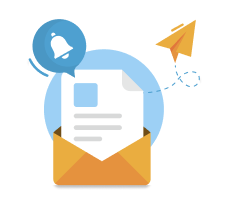
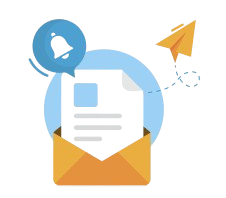
Dark mode

diff --git a/src/components/Home/Contacto/Contacto.jsx b/src/components/Home/Contacto/Contacto.jsx
@@ -49,12 +49,12 @@ const Contacto = () => {
               <input
                 type="text"
                 placeholder="Nombre"
-                className="w-full p-3 border border-gray-300 rounded-md outline-none"
+                className="w-full p-3 border border-[var(--border-gray-300)] placeholder-[var(--color-placeholder)] text-[var(--p-negro)] rounded-md outline-none"
               />
               <input
                 type="text"
                 placeholder="Apellido"
-                className="w-full p-3 border border-gray-300 rounded-md outline-none"
+                className="w-full p-3 border border-[var(--border-gray-300)] placeholder-[var(--color-placeholder)] text-[var(--p-negro)] rounded-md outline-none"
               />
             </div>
 
@@ -62,7 +62,7 @@ const Contacto = () => {
             <input
               type="email"
               placeholder="Correo electrónico"
-              className="w-full p-3 border border-gray-300 rounded-md outline-none"
+              className="w-full p-3 border border-[var(--border-gray-300)] placeholder-[var(--color-placeholder)] text-[var(--p-negro)] rounded-md outline-none"
             />
 
             {/* Adjuntar imagen + (opcional) */}
@@ -70,7 +70,7 @@ const Contacto = () => {
               <input
                 type="file"
                 id="fileInput"
-                className="w-full p-3 border border-gray-300 rounded-md outline-none pr-20 cursor-pointer"
+                className="w-full p-3 border border-[var(--border-gray-300)] placeholder-[var(--color-placeholder)] text-[var(--p-negro)] rounded-md outline-none pr-20 cursor-pointer"
               />
 
               <label
@@ -95,7 +95,7 @@ const Contacto = () => {
             <textarea
               placeholder="Mensaje"
               rows={5}
-              className="w-full p-3 border border-gray-300 rounded-md outline-none resize-none"
+              className="w-full p-3 border border-[var(--border-gray-300)] placeholder-[var(--color-placeholder)] text-[var(--p-negro)] rounded-md outline-none resize-none"
             ></textarea>
 
             {/* Botón enviar */}
@@ -104,8 +104,7 @@ const Contacto = () => {
               className="
                 w-full bg-[var(--botones-rojos)]
                 text-[var(--p-blanco)] font-semibold py-3 rounded-md
-                hover:bg-red-700 transition-all
-              "
+                hover:bg-[var(--botones-rojos-hover)] transition-all"
             >
               Enviar mensaje
             </button>

diff --git a/src/styles/Theme.js b/src/styles/Theme.js
@@ -11,8 +11,11 @@ export const themeColors = {
         '--p-gris-claro': '#908F8F',
         '--recuadro': '#F6F5F5',
         '--botones-rojos': '#C94800',
+        '--botones-rojos-hover':'#B91C1C',
         '--fondo-cards': '#F1F1F3',
-        '--bordes-botones-negro': '#000000'
+        '--bordes-botones-negro': '#000000',
+        '--border-gray-300': '#D1D5DC',
+        '--color-placeholder': '#8d8d8d',
     },
 
     dark: {
@@ -21,13 +24,16 @@ export const themeColors = {
         '--color-background-third': '#262626',        // Cards o bloques
         '--color-background-forth': '#131313',        // Fondos sutiles
         '--color-background-black': '#000000',        // Negro puro si lo necesitas
-        '--color-titulos': '#FF6A2A',                 // Naranja rojizo brillante
+        '--color-titulos': '#005CFF',                 // Naranja rojizo brillante
         '--p-blanco': '#F5F5F5',                      // Blanco suave
         '--p-negro': '#FFFFFF',
         '--p-gris-claro': '#B8B8B8',                  // Gris claro legible
         '--recuadro': '#1F1F1F',                      // Caja o fondo de inputs
-        '--botones-rojos': '#FF6A2A',                 // Botón en dark
+        '--botones-rojos': '#0083C9',                 // Botón en dark
+        '--botones-rojos-hover':'#1C4FB9',
         '--fondo-cards': '#1A1A1A',                   // Cards en oscuro
-        '--bordes-botones-negro': '#707070'           // Bordes sutiles
+        '--bordes-botones-negro': '#707070',           // Bordes sutiles
+        '--border-gray-300': '#D1D5DC',
+        '--color-placeholder': '#8d8d8d',
     },
 }

diff --git a/src/components/Home/Novedades/Novedades.jsx b/src/components/Home/Novedades/Novedades.jsx
@@ -40,24 +40,18 @@ const Novedades = () => {
             <input
               type="email"
               placeholder="Correo electrónico"
-              className="
-                w-full md:w-[80%] p-3 rounded-md border 
-                border-gray-300 outline-none mb-4
-              "
-            />
+              className="w-full md:w-[80%] p-3 rounded-md border 
+               border-[var(--border-gray-300)] placeholder-[var(--color-placeholder)] text-[var(--p-negro)] outline-none mb-4"/>
 
             {/* Botón  */}
-          <motion.button
+            <motion.button
               whileHover={{ scale: 1.05 }}
               whileTap={{ scale: 0.97 }}
               transition={{ duration: 0.2 }}
-              className="
-                w-full md:w-[80%]
-                bg-[var(--botones-rojos)]
-                text-white font-semibold
-                px-8 py-3 rounded-md
-              "
-            >
+              className="w-full md:w-[80%] 
+                bg-[var(--botones-rojos)] hover:bg-[var(--botones-rojos-hover)]
+                text-[var(--p-blanco)] font-semibold
+                px-8 py-3 rounded-md">
               Subscribirse ahora
             </motion.button>
 

diff --git a/src/components/Footer/Footer.jsx b/src/components/Footer/Footer.jsx
@@ -42,7 +42,7 @@ const Footer = () => {
 
           <p className="flex items-center gap-2 mb-2">
             <FaEnvelope className="text-[var(--p-blanco)]" />
-            correoelctronico@gmail.com
+            correoelectronico@gmail.com
           </p>
 
           <p className="flex items-center gap-2 mb-6">
@@ -73,8 +73,8 @@ const Footer = () => {
           {/* ENLACES */}
           <h3 className="text-[var(--color-titulos)] font-semibold text-lg mb-4">ENLACES DE INTERÉS</h3>
           <ul className="space-y-1">
-            <li>www.kdskdlaklda.com</li>
-            <li>www.djskajdjoqoowiq.com</li>
+            <li>https://www.specialized.uy</li>
+            <li>https://www.lazersport.com/latam</li>
           </ul>
         </div>
 
@@ -92,7 +92,7 @@ const Footer = () => {
             EQUIPO DE DESARROLLO
           </h3>
           <p>Desarrollo web: <a href="https://portfolio-cecilia.vercel.app/">Cecilia Perdomo</a></p>
-          <p>Diseño UX/UI: Noelia Perdomo</p>
+          <p>Diseño UX/UI: <a href="https://www.linkedin.com/in/noeliaperdomo/">Noelia Perdomo</a></p>
         </div>
 
       </div>

diff --git a/src/components/Home/NuestrosProductos/Productos.jsx b/src/components/Home/NuestrosProductos/Productos.jsx
@@ -24,19 +24,15 @@ const Productos = () => {
             <input
               type="text"
               placeholder="¿Qué estás buscando?"
-              className="
-        w-full p-3 pr-14 rounded-full border 
-        border-gray-300 outline-none text-[18px]
-      "
+              className=" w-full p-3 pr-14 rounded-full border placeholder-[var(--color-placeholder)]
+        border-[var(--border-gray-300)] outline-none text-[18px] text-[var(--p-negro)]"
             />
 
             {/* Botoncito dentro del input */}
             <button
-              className="
-        absolute right-1 top-1/2 -translate-y-1/2
+              className="absolute right-1 top-1/2 -translate-y-1/2
         bg-[var(--botones-rojos)] text-[var(--p-blanco)] 
-        w-10 h-10 rounded-full flex items-center justify-center text-lg
-      "
+        w-10 h-10 rounded-full flex items-center justify-center text-lg"
             >
               <FiSearch />
             </button>

diff --git a/src/components/Home/Clientes/Clientes.jsx b/src/components/Home/Clientes/Clientes.jsx
@@ -35,17 +35,12 @@ const Clientes = () => {
 
         {/* Botón */}
          <button
-          className="
-            relative inline-block 
+          className="relative inline-block 
             px-12 py-4 font-semibold text-[var(--p-blanco)] tracking-widest
-            bg-[var(--botones-rojos)]
-            text-lg italic
-            overflow-hidden
-           "
+            bg-[var(--botones-rojos)] hover:bg-[var(--botones-rojos-hover)]
+            text-lg italic overflow-hidden"
 
-          style={{
-            clipPath: "polygon(5% 0%, 100% 0%, 95% 100%, 0% 100%)",
-          }}
+          style={{ clipPath: "polygon(5% 0%, 100% 0%, 95% 100%, 0% 100%)" }}
         >
           VER TODOS NUESTROS CLIENTES
         </button>

diff --git a/src/components/Home/Destacados/CardProducto.jsx b/src/components/Home/Destacados/CardProducto.jsx
@@ -55,7 +55,7 @@ const CardProducto = ({ id, imagen, nombre, descripcion, colores }) => {
         whileHover={{ scale: 1.05, y: -2 }}
         whileTap={{ scale: 0.95 }}
         transition={{ duration: 0.15 }}
-        className="bg-[var(--botones-rojos)] text-[var(--p-blanco)] py-2 px-4 uppercase tracking-wide mt-auto"
+        className="bg-[var(--botones-rojos)] hover:bg-[var(--botones-rojos-hover)] text-[var(--p-blanco)] py-2 px-4 uppercase tracking-wide mt-auto"
         style={{ clipPath: "polygon(5% 0%, 100% 0%, 95% 100%, 0% 100%)" }}
       >
         Ver detalles
